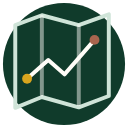
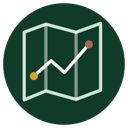
feat: refine KnownMap brand lockup

diff --git a/teacher-web/editor.html b/teacher-web/editor.html
@@ -3,17 +3,20 @@
   <head>
     <meta charset="UTF-8">
     <meta name="viewport" content="width=device-width, initial-scale=1.0">
-    <meta name="description" content="KnownMap 课程设计平台">
-    <title>登录 · KnownMap 课程设计平台</title>
+    <meta name="description" content="KnownMap 互动课程工具">
+    <title>登录 · KnownMap 互动课程工具</title>
     <link rel="icon" type="image/png" href="assets/knownmap-icon.png">
-    <link rel="stylesheet" href="styles.css?v=course-platform-3">
+    <link rel="stylesheet" href="styles.css?v=brand-lockup-1">
   </head>
   <body>
     <div class="app-shell">
       <header class="topbar">
         <a class="brand" href="#home" aria-label="返回我的课程">
           <img class="brand-mark" src="assets/knownmap-icon.png" alt="">
-          <span><strong>KnownMap</strong><small>课程设计平台</small></span>
+          <span>
+            <strong class="brand-wordmark" aria-label="KnownMap"><span class="brand-letter brand-letter-k" aria-hidden="true">K</span><span aria-hidden="true">nown</span><span class="brand-letter brand-letter-m" aria-hidden="true">M</span><span aria-hidden="true">ap</span></strong>
+            <small>互动课程工具</small>
+          </span>
         </a>
         <nav class="topnav" id="workspace-nav" aria-label="主导航" hidden>
           <button class="nav-link" type="button" data-route="home">我的课程</button>
@@ -30,8 +33,8 @@
       <main>
         <section id="auth-view" class="view auth-view" aria-labelledby="auth-title" hidden>
           <div class="auth-panel">
-            <p class="eyebrow">KnownMap 课程设计平台</p>
-            <h1 id="auth-title">登录课程设计平台</h1>
+            <p class="eyebrow">KnownMap 互动课程工具</p>
+            <h1 id="auth-title">登录互动课程工具</h1>
             <p>使用教师账号继续设计和发布课程。</p>
             <form id="login-form">
               <label class="field-group"><span>登录账号</span><input id="login-name" name="login_name" value="teacher-test-01" autocomplete="username" required></label>
@@ -163,6 +166,6 @@
     <script src="visual-node-editor.js?v=course-platform-3"></script>
     <script src="api-client.js?v=local-api-1"></script>
     <script src="auth-session.js?v=local-api-1"></script>
-    <script src="app.js?v=course-platform-3"></script>
+    <script src="app.js?v=brand-lockup-1"></script>
   </body>
 </html>

diff --git a/tests/knownmap-brand.test.js b/tests/knownmap-brand.test.js
@@ -33,7 +33,23 @@ test('canonical KnownMap logo defines the approved map-window geometry', () => {
   assert.match(svg, /stroke-opacity=["']0\.48["']/i);
   assert.match(svg, /M85 34v158M160 53v159/);
   assert.match(svg, /M55 160l43-38 33 29 61-70/);
+  assert.match(svg, /transform=["']translate\(23\.4 23\.4\) scale\(0\.82\)["']/);
   assert.equal((svg.match(/stroke-opacity=/g) || []).length, 1, 'only the two weakened fold lines should use opacity');
+});
+
+test('all KnownMap logo variants share the reduced internal safe area', () => {
+  for (const relativePath of [
+    'src/assets/knownmap-logo.svg',
+    'src/assets/knownmap/knownmap-circle.svg',
+    'src/assets/knownmap/knownmap-square.svg',
+    'src/assets/knownmap/knownmap-transparent.svg'
+  ]) {
+    assert.match(
+      read(relativePath),
+      /transform=["']translate\(23\.4 23\.4\) scale\(0\.82\)["']/,
+      `${relativePath} must use the shared 82% internal geometry`
+    );
+  }
 });
 
 test('KnownMap logo exports exist at all required sizes', () => {
@@ -68,6 +84,20 @@ test('user-visible extension and pages use KnownMap and the logo asset', () => {
       .replace(/<!--[\s\S]*?-->/g, '');
     assert.doesNotMatch(visibleHtml, /LessonPilot|>LP</);
   }
+});
+
+test('teacher application uses the interactive-course-tool name and colored K/M wordmark', () => {
+  const html = read('teacher-web/editor.html');
+  const app = read('teacher-web/app.js');
+  const css = read('teacher-web/styles.css');
+
+  assert.match(html, /KnownMap 互动课程工具/);
+  assert.doesNotMatch(html, /课程设计平台/);
+  assert.doesNotMatch(app, /课程设计平台/);
+  assert.match(html, /class=["']brand-letter brand-letter-k["'][^>]*>K</);
+  assert.match(html, /class=["']brand-letter brand-letter-m["'][^>]*>M</);
+  assert.match(css, /\.brand-letter-k\s*\{[^}]*color:\s*#d9a51e/i);
+  assert.match(css, /\.brand-letter-m\s*\{[^}]*color:\s*#a9654e/i);
 });
 
 test('legacy protocol and storage identifiers remain compatible', () => {

diff --git a/tests/teacher-api-client.test.js b/tests/teacher-api-client.test.js
@@ -75,12 +75,12 @@ test('teacher editor loads auth, API, draft, publish and access-code controls', 
   assert.equal(page.includes('class="event-options"'), false);
 });
 
-test('teacher editor presents a production-like course design platform login', () => {
+test('teacher editor presents a production-like interactive course tool login', () => {
   const page = fs.readFileSync('teacher-web/editor.html', 'utf8');
   const app = fs.readFileSync('teacher-web/app.js', 'utf8');
 
   assert.ok(page.includes('id="login-name" name="login_name" value="teacher-test-01"'));
-  assert.ok(page.includes('KnownMap 课程设计平台'));
+  assert.ok(page.includes('KnownMap 互动课程工具'));
   assert.ok(page.includes('id="login-password" name="password" type="password"'));
   assert.equal(/id="login-password"[^>]*\svalue=/.test(page), false);
   assert.ok(page.includes('id="toggle-password"'));
@@ -101,10 +101,10 @@ test('teacher editor presents a production-like course design platform login', (
   assert.equal(page.includes('knownmap-local-2026'), false);
   assert.ok(app.includes('let captions = [];'));
   assert.equal(app.includes('Today we are going to talk about'), false);
-  assert.ok(page.includes('styles.css?v=course-platform-3'));
+  assert.ok(page.includes('styles.css?v=brand-lockup-1'));
+  assert.ok(page.includes('app.js?v=brand-lockup-1'));
   assert.ok(page.includes('src="timeline-model.js?v=course-platform-3"'));
   assert.ok(page.includes('src="visual-node-editor.js?v=course-platform-3"'));
-  assert.ok(page.includes('src="app.js?v=course-platform-3"'));
   assert.ok(app.includes('captions = [];'));
   assert.ok(app.includes('state.editor.setCaptions(captions)'));
   assert.ok(app.includes('state.nodes = state.editor?.getState().nodes'));

diff --git a/teacher-web/app.js b/teacher-web/app.js
@@ -100,8 +100,8 @@
     });
     window.history.replaceState(null, '', timeline ? '#timeline' : '#home');
     document.title = timeline
-      ? `${state.course?.title || '课程设计'} · KnownMap 课程设计平台`
-      : '我的课程 · KnownMap 课程设计平台';
+      ? `${state.course?.title || '课程设计'} · KnownMap 互动课程工具`
+      : '我的课程 · KnownMap 互动课程工具';
     window.scrollTo({ top: 0, behavior: 'auto' });
   };
   const resetPasswordVisibility = () => {
@@ -171,7 +171,7 @@
     timelineView.hidden = true;
     workspaceNav.hidden = true;
     workspaceAccount.hidden = true;
-    document.title = '登录 · KnownMap 课程设计平台';
+    document.title = '登录 · KnownMap 互动课程工具';
     const error = document.querySelector('#login-error');
     error.textContent = message;
     error.hidden = !message;
@@ -290,7 +290,7 @@
     if (!state.course) {
       state.course = await api.createCourse({
         title: courseTitleInput.value.trim(),
-        description: '由 KnownMap 课程设计平台创建'
+        description: '由 KnownMap 互动课程工具创建'
       });
     }
     if (!state.lesson) {

diff --git a/tests/page-information-architecture.test.js b/tests/page-information-architecture.test.js
@@ -1,5 +1,5 @@
 /**
- * 教师销售页、工作台示例页与课程设计平台的信息架构护栏。
+ * 教师销售页、工作台示例页与互动课程工具的信息架构护栏。
  * 运行：node tests/page-information-architecture.test.js
  *
  * 2026-08-14：`student-web/` 已删除，学生宿主固定为装了插件的 B 站原页面，
@@ -74,7 +74,7 @@ const checks = [
   },
   {
     label: 'teacher platform centers the current course workflow without prototype framing',
-    run: () => editorPage.includes('KnownMap 课程设计平台')
+    run: () => editorPage.includes('KnownMap 互动课程工具')
       && editorPage.includes('id="home-title">我的课程')
       && editorPage.includes('id="course-workspace"')
       && editorPage.includes('id="course-materials"')

diff --git a/teacher-web/styles.css b/teacher-web/styles.css
@@ -96,7 +96,16 @@ textarea:focus-visible {
 }
 
 .brand strong {
+  color: var(--ink);
   font-size: 16px;
+}
+
+.brand-letter-k {
+  color: #d9a51e;
+}
+
+.brand-letter-m {
+  color: #a9654e;
 }
 
 .brand small {
